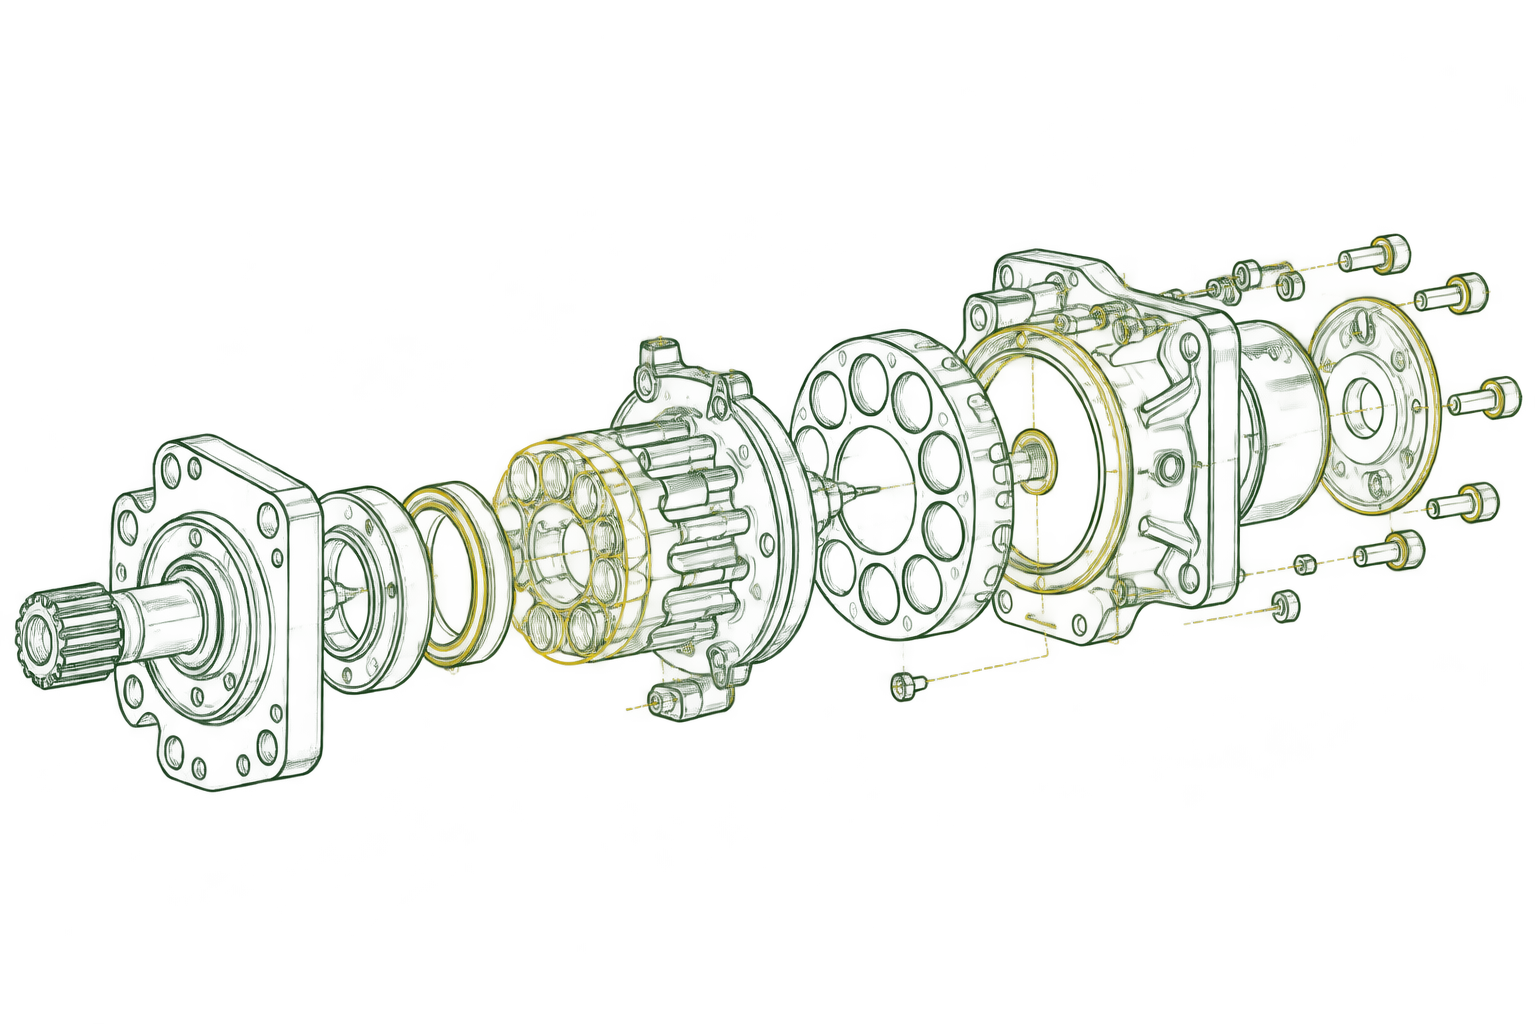
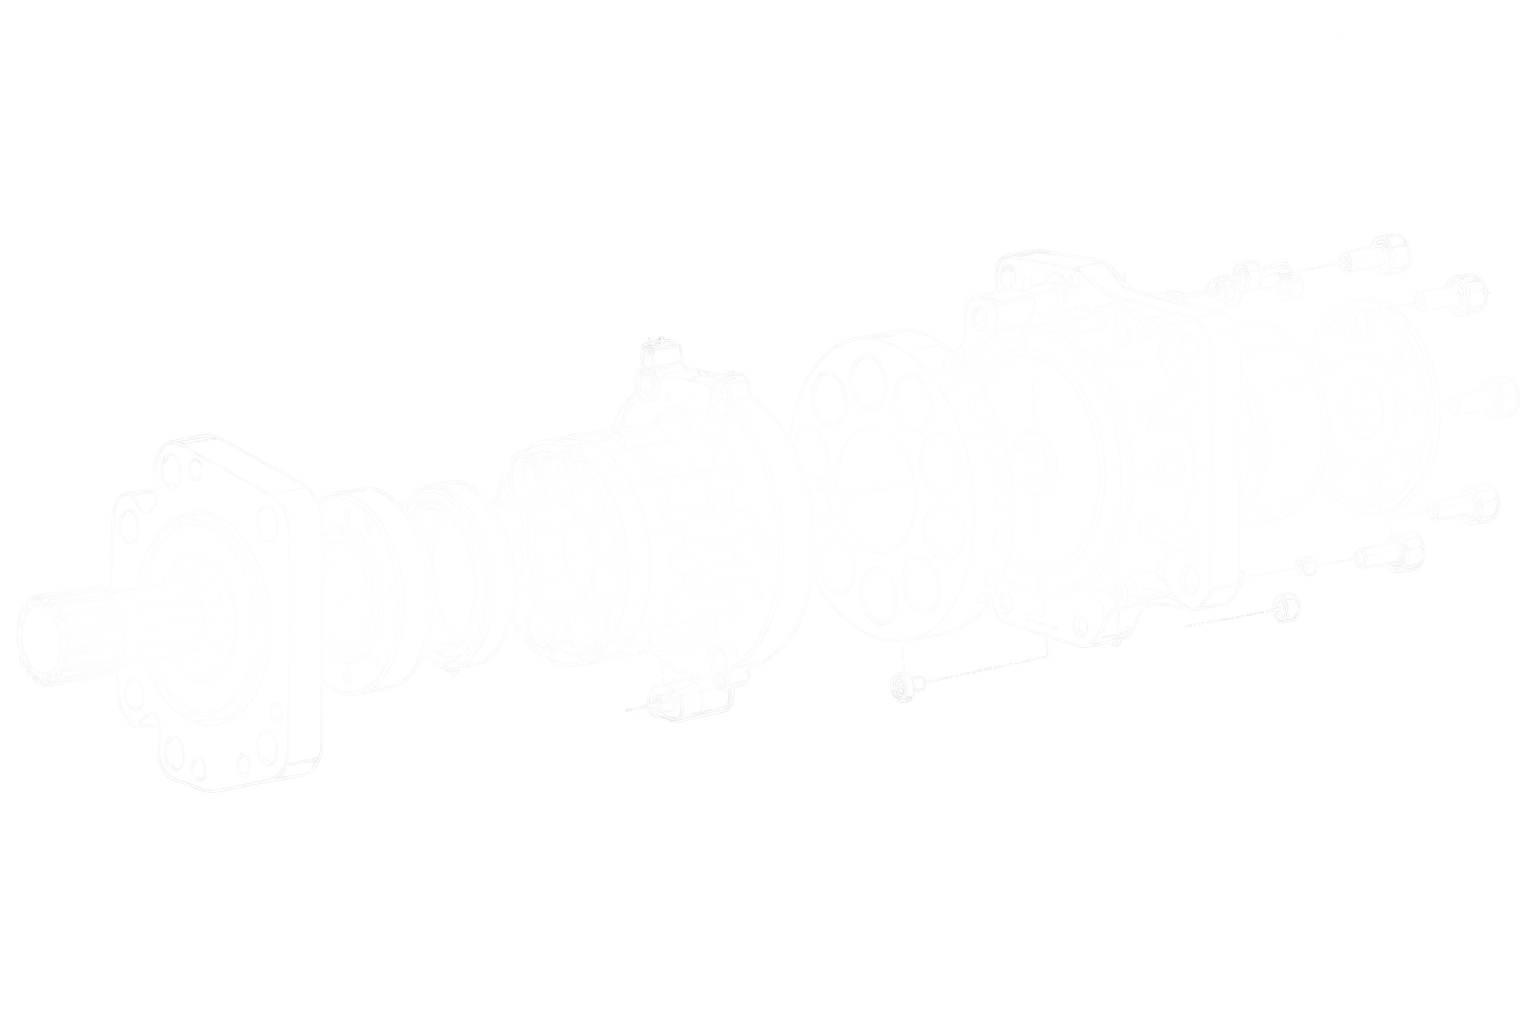
style: reposition hero assembly drawing

Changed region(s): [[0.0, 0.2188, 1.0, 0.7812], [0.5625, 0.6562, 0.625, 0.6875]]

diff --git a/frontend/src/components/sections/HomeHero.styles.test.ts b/frontend/src/components/sections/HomeHero.styles.test.ts
@@ -11,4 +11,10 @@ describe("homepage hero", () => {
       /\.commerce-hero\s*\{[\s\S]*?background:\s*#173b25;/u,
     );
   });
+
+  it("offsets the assembly illustration 100px left and 70px down", () => {
+    expect(styles).toMatch(
+      /\.commerce-hero__assembly\s*\{[\s\S]*?top:\s*calc\(clamp\(3rem,\s*3\.3vw,\s*4\.75rem\)\s*\+\s*70px\);[\s\S]*?right:\s*calc\(clamp\(2rem,\s*4vw,\s*6rem\)\s*\+\s*100px\);/u,
+    );
+  });
 });

diff --git a/frontend/src/app/globals.css b/frontend/src/app/globals.css
@@ -2800,8 +2800,8 @@ a.product-card__category:hover {
 
 .commerce-hero__assembly {
   position: absolute;
-  top: clamp(3rem, 3.3vw, 4.75rem);
-  right: clamp(2rem, 4vw, 6rem);
+  top: calc(clamp(3rem, 3.3vw, 4.75rem) + 70px);
+  right: calc(clamp(2rem, 4vw, 6rem) + 100px);
   width: min(46vw, 52.5rem);
   height: min(25vw, 28rem);
   pointer-events: none;
